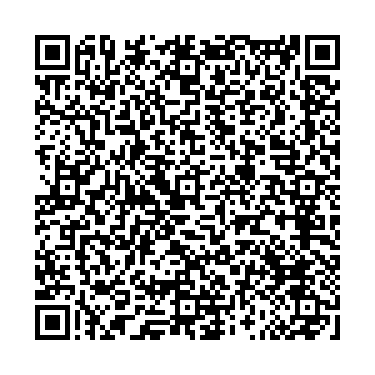
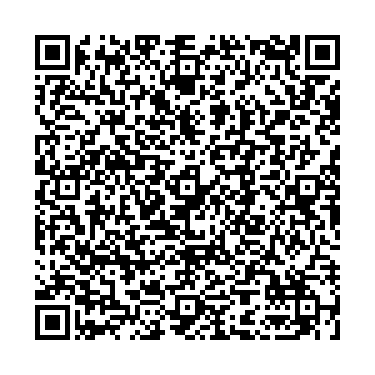
se agrega mensaje personalizado

Changed region(s): [[0.088, 0.088, 0.9093, 0.9093], [0.528, 0.088, 0.6747, 0.2053]]

diff --git a/services/stripe.js b/services/stripe.js
@@ -21,31 +21,18 @@ const handlerStripe = async (phone = '', email = '', name = '', categoria='', ra
   headerObject.append("Content-Type", "application/x-www-form-urlencoded");
   headerObject.append("Authorization", `Bearer ${stripeApiBase64}`);
 
-  const requestData = {
-    
-      categoria: categoria,
-      rama: rama,
-    
-  };
-    // Convierte el objeto de datos en una cadena JSON
-    const jsonData = JSON.stringify(requestData);
 
   const urlencoded = new URLSearchParams();
   urlencoded.append("line_items[0][price]", priceId);
   urlencoded.append("line_items[0][quantity]", "1");
   urlencoded.append("allow_promotion_codes", "false");
   urlencoded.append("customer_creation", "always");
-  urlencoded.append("success_url", `${FRONT_URL}/api/callback?p=${encryptData(`${phone}__success__${email}__${name}`)}`);
+  urlencoded.append("success_url", `${FRONT_URL}/api/callback?p=${encryptData(`${phone}__success__${email}__${name}__${categoria}__${rama}`)}`);
   urlencoded.append("cancel_url", `${FRONT_URL}/api/callback?p=${encryptData(`${phone}__fail__${email}__${name}`)}`);
   urlencoded.append("mode", "payment");
   urlencoded.append("customer_email", email);
-  urlencoded.append("metadata", requestData);
+  
 
-  const requestOptions = {
-    method: "POST",
-    headers: headerObject,
-    body: urlencoded,
-  };
 
   const stripeRequest = await fetch(URL, requestOptions);
   const response = await stripeRequest.json();

diff --git a/http/services/e-learning/index.js b/http/services/e-learning/index.js
@@ -61,7 +61,7 @@ const register = async (email) => {
   const registerUsers = async (email, phone, status, name) => {
     try {
       
-       const result =  await pool.query(`INSERT INTO railway.users(name, phone, email, status)VALUES ('${name}', '${phone}','${email}','${status}')`)
+       const result =  await pool.query(`INSERT INTO railway.users(name, phone, email, status, categoria, rama)VALUES ('${name}', '${phone}','${email}','${status}','${categoria}','${rama}')`)
       // const data = await result.json();
       console.log(result[0].insertId)
       return result;  
@@ -70,6 +70,20 @@ const register = async (email) => {
       return error;
     }
     
+};
+
+const findUsers = async (phone) => {
+  try {
+    
+     const result =  await pool.query(`SELECT * FROM railway.users where phone = '${phone}';`)
+    // const data = await result.json();
+    console.log(result)
+    return result;  
+  } catch (error) {
+    console.log(error);
+    return error;
+  }
+  
 };
 
 const rechargePoint = async (points = 0, userId = "") => {
@@ -93,4 +107,4 @@ const rechargePoint = async (points = 0, userId = "") => {
   return data;
 };
 
-module.exports = { login, rechargePoint, exchange, register, registerUsers };
+module.exports = { login, rechargePoint, exchange, register, registerUsers, findUsers };

diff --git a/flows/flowPrincipal.js b/flows/flowPrincipal.js
@@ -4,6 +4,8 @@ const flowSendLink = require("../flows/linkPay");
 const flowPoster = require("../flows/flowPoster");
 const flowInfo = require("../flows/flowInfo");
 const flowSecondary = require("../flows/flowSecondary");
+const { findUsers } = require("../http/services/e-learning");
+
 
 
 
@@ -23,13 +25,17 @@ const flowPrincipal = addKeyword(EVENTS.WELCOME)
       }
     }
   )
+
   .addAction(
     async (ctx, { state }) => {
-      await state.update({ flujo: 'flowPrincipal' })
+      const find = await findUsers(ctx.from);
+      const username = (find!= undefined) ?await state.update({ username: find[0][0].name }):''
+      await flowDynamic([`Bienvenido ${username} al ChatBot del *Gran Fondo Coconal*`, "Evento para los amantes del ciclismo. Recorrer la autopista DURANGO-TORREÓN en CARRERA 200K "]);
+
 
     }
   )
-  .addAnswer(["Bienvenido al ChatBot del *Gran Fondo Coconal*", "Evento para los amantes del ciclismo. Recorrer la autopista DURANGO-TORREÓN en CARRERA 200K "])
+  
   .addAnswer(
     [
       "¿Como podemos ayudarte?",

diff --git a/http/controllers/callback.js b/http/controllers/callback.js
@@ -14,7 +14,7 @@ const ctrlCallBack = async (req, res) => {
   }
 
   const data = decryptData(payload);
-  const [phone, status, email,name] = data.split("__") ?? [
+  const [phone, status, email,name, categoria, rama] = data.split("__") ?? [
     undefined,
     undefined,
     undefined,
@@ -41,7 +41,7 @@ const ctrlCallBack = async (req, res) => {
         "Si tienes algun inconveniente puedes escribirme un mail a ilianafav@hotmail.com ",
       ].join("\n")
     );
-    const insert = await registerUsers(email, phone, status, name);
+    const insert = await registerUsers(email, phone, status, name, categoria, rama);
     // const code = await exchange(COURSE_ID, email);
     // console.log(`Registando usuario:${email}`)
     // if (code === 404) {

diff --git a/app.js b/app.js
@@ -1,5 +1,6 @@
 require("dotenv").config();
 
+
 const { createBot, createProvider, createFlow, addKeyword } = require('@bot-whatsapp/bot')
 
 const QRPortalWeb = require('@bot-whatsapp/portal')
@@ -30,6 +31,8 @@ const flowConvocatoria = require("./flows/flowConvocatoria");
 
 
 const main = async () => {
+
+
     const adapterDB = new JsonFileAdapter()
     const adapterFlow = createFlow([
         flowPrincipal,
